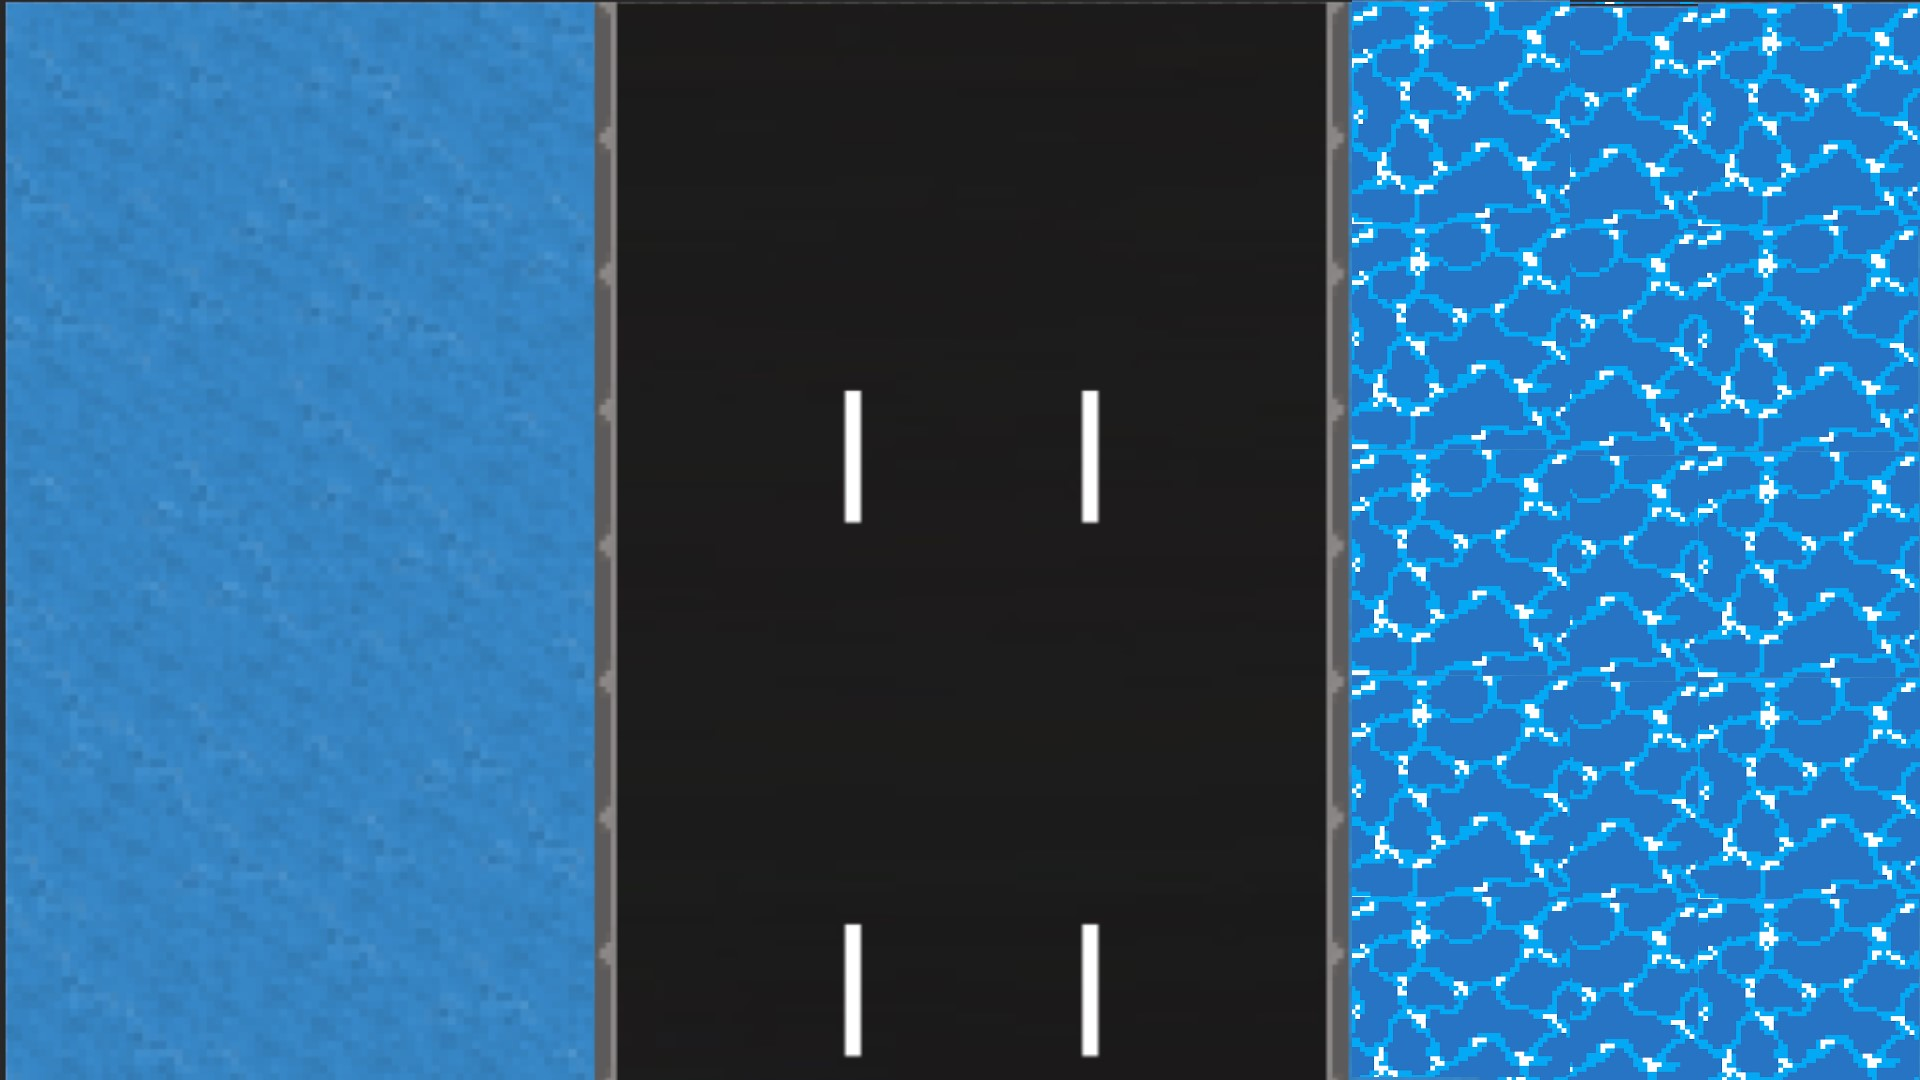
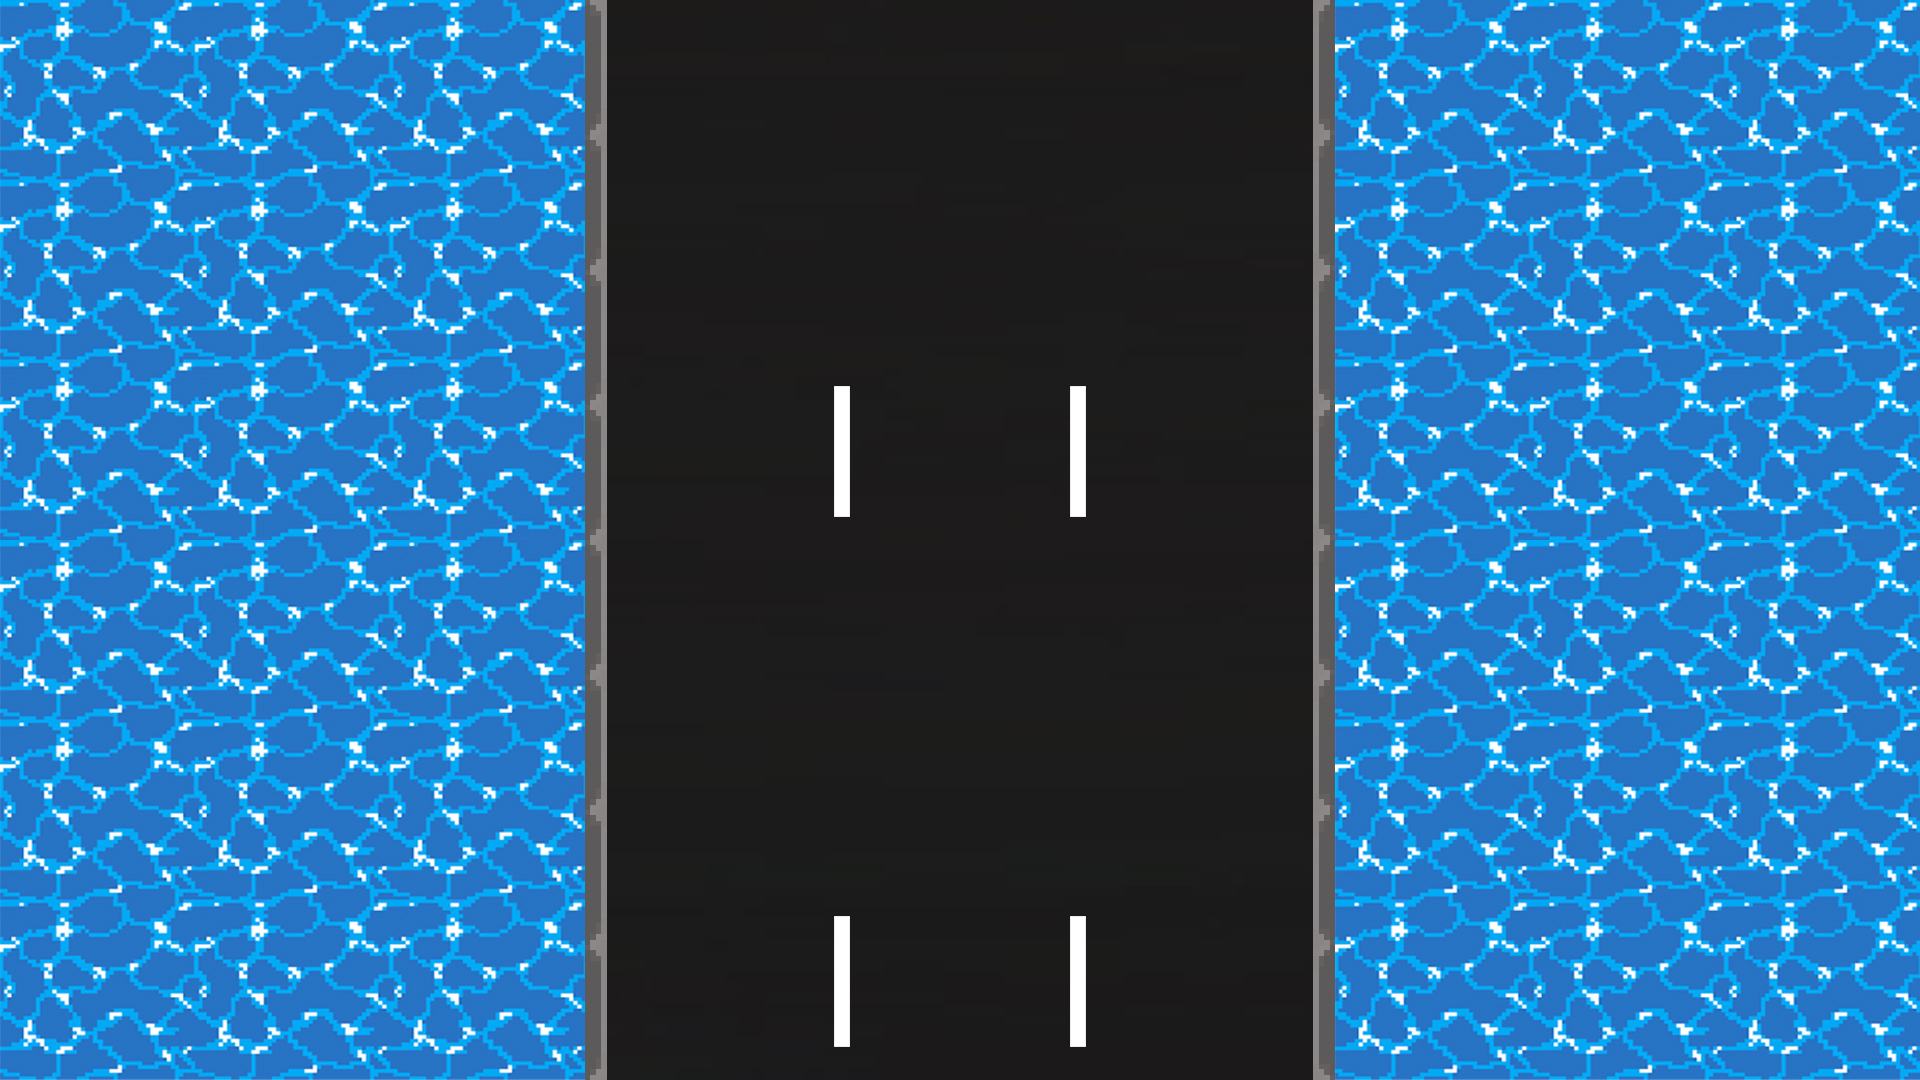
bg changes

diff --git a/build/app.js b/build/app.js
@@ -229,6 +229,7 @@ class Player {
     goUp(activate, reset) {
         if (reset == true) {
             this.positionX = this.middleLane;
+            this.goLeft = undefined;
         }
         if (activate == true) {
             ;
@@ -378,6 +379,7 @@ window.addEventListener('load', () => {
 class Questions extends Screens {
     constructor(canvas, player) {
         super();
+        this.firstStart = true;
         this.questionCounter = 0;
         this.player = player;
         this.canvas = canvas;
@@ -394,6 +396,10 @@ class Questions extends Screens {
         this.player.goUp(false, true);
     }
     gameLogic() {
+        if (this.firstStart == true) {
+            this.reset(0);
+            this.firstStart = false;
+        }
         this.player.goUp(this.questionConfirmed, false);
         this.player.questionMove();
         if (this.pickedQuestion == false) {
@@ -539,6 +545,7 @@ class Level extends Screens {
         this.pause();
         if (this.getState() === ScreenState.PLAYING) {
             this.frameIndex++;
+            this.player.goUp(false, false);
             this.player.move();
             this.backgroundLogic();
             this.collision();
@@ -755,11 +762,11 @@ class Background extends ScoringObject {
     }
     imageChanger() {
         switch (this.currentLevel) {
-            case 2:
-                this.background = this.loadNewImage("assets/img/street2.jpg");
-                break;
             case 1:
                 this.background = this.loadNewImage("assets/img/street3.jpg");
+                break;
+            case 2:
+                this.background = this.loadNewImage("assets/img/street4.jpg");
                 break;
             case 3:
                 this.background = this.loadNewImage("assets/img/street4.jpg");

diff --git a/src/Screens/Questions.ts b/src/Screens/Questions.ts
@@ -20,6 +20,8 @@ abstract class Questions extends Screens {
     private questionI: number;
     private pickedQuestion: boolean;
 
+    private firstStart: boolean = true;
+
     // keeps score of the amount of questions that have been completed
     private questionCounter:number = 0
 
@@ -44,7 +46,10 @@ abstract class Questions extends Screens {
 
 
     public gameLogic() {
-        //console.log("qlogic work");
+        if (this.firstStart == true){
+            this.reset(0);
+            this.firstStart = false;
+        }
         this.player.goUp(this.questionConfirmed,false);
         this.player.questionMove();
         if (this.pickedQuestion == false) {

diff --git a/src/Objects/Background.ts b/src/Objects/Background.ts
@@ -24,11 +24,11 @@ class Background extends ScoringObject {
     private imageChanger() {
 
         switch (this.currentLevel) {
-            case 2:
-                this.background = this.loadNewImage("assets/img/street2.jpg");
-                break;
             case 1:
                 this.background = this.loadNewImage("assets/img/street3.jpg");
+                break;
+            case 2:
+                this.background = this.loadNewImage("assets/img/street4.jpg");
                 break;
             case 3:
                 this.background = this.loadNewImage("assets/img/street4.jpg");

diff --git a/src/Screens/Level.ts b/src/Screens/Level.ts
@@ -65,7 +65,7 @@ abstract class Level extends Screens {
         if (this.getState() === ScreenState.PLAYING) {
             this.frameIndex++
 
-
+            this.player.goUp(false, false)
             this.player.move();
             this.backgroundLogic();
             //console.log(this.frameIndex);

diff --git a/src/Player.ts b/src/Player.ts
@@ -96,6 +96,8 @@ class Player {
     public goUp(activate: boolean, reset:boolean) {
         if (reset == true){
             this.positionX = this.middleLane;
+            this.goLeft = undefined;
+            
         }
         if (activate == true) {;
             this.velocityY +=  1,5
